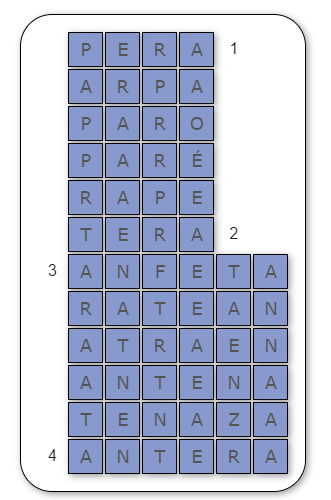
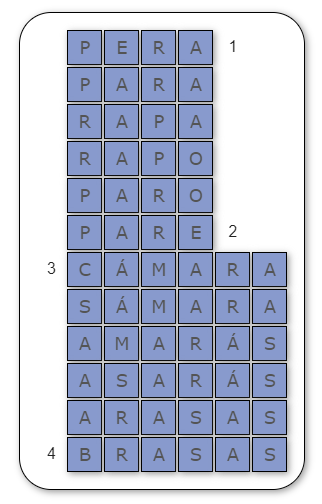
Cambiadas soluciones del 2 y 3

diff --git a/public/javascripts/cascada2.js b/public/javascripts/cascada2.js
@@ -25,9 +25,12 @@
          diccionario.push("nace");
          diccionario.push("tolero")
          diccionario.push("paré")
-         diccionario.push("tera")
-         diccionario.push("ratean")
-         diccionario.push("atraen")
+         diccionario.push("amarás")
+         diccionario.push("amaras")
+         diccionario.push("asarás")
+         diccionario.push("asaras")
+         diccionario.push("arasas")
+         diccionario.push("brasas")
          console.log(localStorage);
      }catch (e) {
          console.log(`Error: ${e}`)
@@ -248,7 +251,7 @@
      var ide = ""+e.target.id
      var row = e.target.className
  
-     if(e.keyCode == 192 || (e.keyCode >= 65 && e.keyCode < 90)){
+     if(e.keyCode == 192 || (e.keyCode >= 65 && e.keyCode <= 90)){
          if(row < 7){
              if(ide.charAt(1) == 4){
                  document.getElementById(ide).blur();

diff --git a/public/javascripts/cascada3.js b/public/javascripts/cascada3.js
@@ -24,10 +24,11 @@
          diccionario.push("nací");
          diccionario.push("nace");
          diccionario.push("tolero")
-         diccionario.push("trunca")
-         diccionario.push("duos")
-         diccionario.push("suda")
-         diccionario.push("tranco")
+         diccionario.push("odor")
+         diccionario.push("nombra")
+         diccionario.push("broman")
+         diccionario.push("brozan")
+
          console.log(localStorage);
      }catch (e) {
          console.log(`Error: ${e}`)
@@ -248,7 +249,7 @@
      var ide = ""+e.target.id
      var row = e.target.className
  
-     if(e.keyCode == 192 || (e.keyCode >= 65 && e.keyCode < 90)){
+     if(e.keyCode == 192 || (e.keyCode >= 65 && e.keyCode <= 90)){
          if(row < 7){
              if(ide.charAt(1) == 4){
                  document.getElementById(ide).blur();

diff --git a/public/cascada3.html b/public/cascada3.html
@@ -198,7 +198,7 @@
                                     </table>
                                     
                                 </div>
-                                <p style="text-align: center; margin: 0 0 2em 0;">1.Familia en Escocia. 2.Tristeza y dolor por algo. 3. Termino algo definitivamente. 4. El que torea.</p>
+                                <p style="text-align: center; margin: 0 0 2em 0;"> > 1. Moneda de la Unión Europea  > 2.Efluvio de un cuerpo que impresiona el sentido del olfato <br> > 3. Palabra que designa o identifica seres animados <br> > 4. Filamento o hebra, especialmente de una planta o de un fruto</p>
                             </td>
                             <td id="csc_column_clues">
                                 <div class="center_txt1">

diff --git a/public/cascada2.html b/public/cascada2.html
@@ -198,7 +198,7 @@
                                     </table>
                                     
                                 </div>
-                                <p style="text-align: center; margin: 0 0 2em 0;">> 1. Fruto del peral   > 2. Equivalente a 10<sup>12</sup> > 3. Acortamiento de anfetamina <br> > 4. Parte superior del estambre de la flor que contiene el polen</p>
+                                <p style="text-align: center; margin: 0 0 2em 0;">> 1. Fruto del peral   > 2. "STOP" en Puerto Rico > 3. Aparato para hacer fotografías <br> > 4. Leña o carbón encendidos, rojos, por total incandescencia. </p>
                             </td>
                             <td id="csc_column_clues">
                                 <div class="center_txt1">

diff --git a/routes/index.js b/routes/index.js
@@ -40,14 +40,14 @@ router.post('/palabras', function(req, res) {
 router.post('/palabras2', function(req, res) {
   var palabraFormada =  req.body.palabraFormada
   var num = req.body.numPalabra
-  let soluciones = ['pera', 'tera', 'anfeta', 'antera']
+  let soluciones = ['pera', 'pare', 'cámara', 'brasas']
   res.end(JSON.stringify(comprobarSoluciones(palabraFormada, num, soluciones)))
 });
 
 router.post('/palabras3', function(req, res) {
   var palabraFormada =  req.body.palabraFormada
   var num = req.body.numPalabra
-  let soluciones = ['euro', 'duna', 'funcar', 'bronce']
+  let soluciones = ['euro', 'olor', 'nombre', 'brizna']
   res.end(JSON.stringify(comprobarSoluciones(palabraFormada, num, soluciones)))
 });
 

diff --git a/public/javascripts/cascada.js b/public/javascripts/cascada.js
@@ -244,7 +244,7 @@ function cleanBoard(){
     var ide = ""+e.target.id
     var row = e.target.className
 
-    if(e.keyCode == 192 || (e.keyCode >= 65 && e.keyCode < 90)){
+    if(e.keyCode == 192 || (e.keyCode >= 65 && e.keyCode <= 90)){
         if(row < 7){
             if(ide.charAt(1) == 4){
                 document.getElementById(ide).blur();
